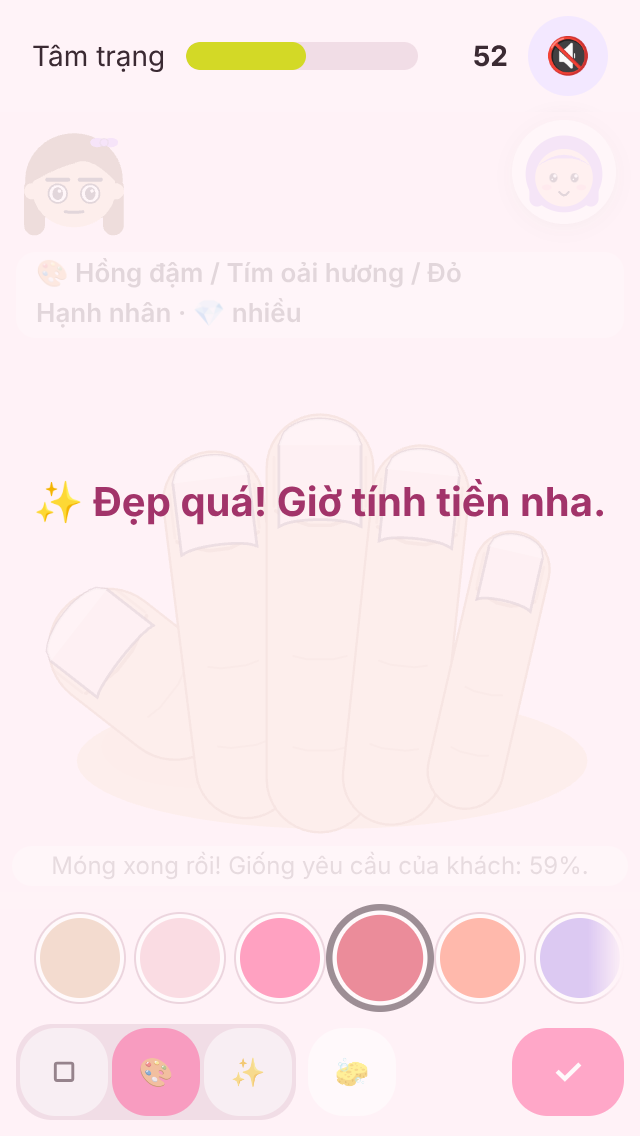
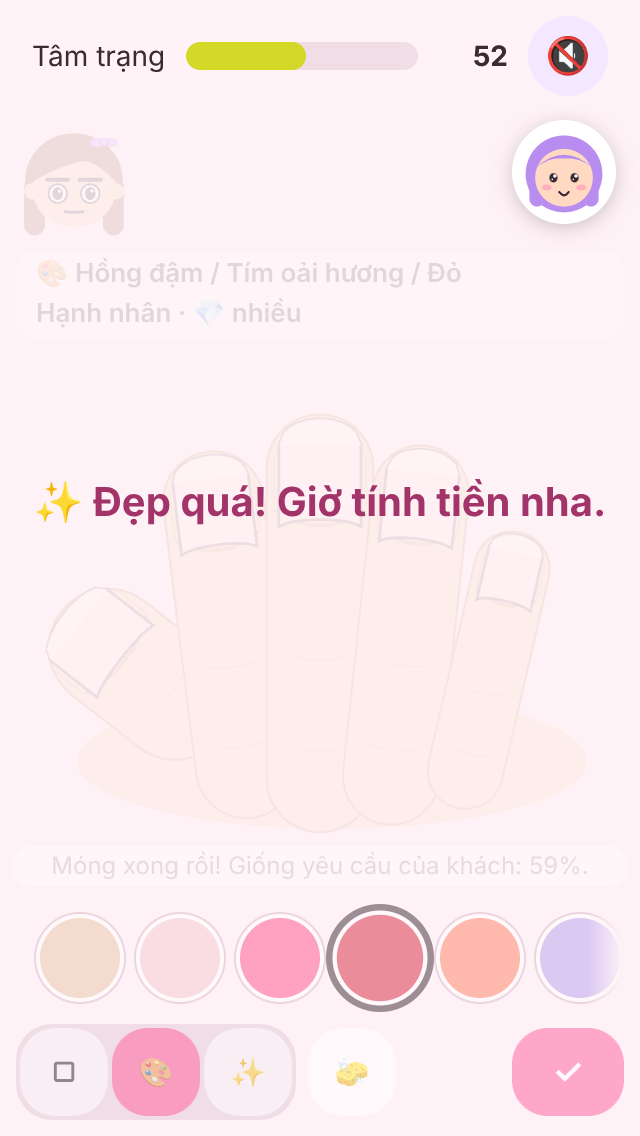
040 fix: the tip label never covers the client's face; re-shot the stale 035 nudge evidence — SAFE TO PAUSE
Overseer review of 3968382:
1. In the chat view "Tip for you! 💡" sat over the client's eyes, and her expression is how the player reads
   the mood. The label now sits above the companion's bubble and starts right of where her face ends. The
   portrait zone publishes the face box (data-face, and --face-right for the strip), so the label wraps instead
   of reaching her face, at any width. The service screen was already clear.
   The tip-cue e2e test now runs in the chat view (consultation) and checks that the label's box never meets
   the face box, en and vi. I watched it fail on the old placement first. An earlier version of the check
   passed on the old placement because the test was on the service screen, where the face is small and out of
   the way; that is now fixed.
2. production/qa/evidence/story-035-service-full-screen/en-320-02b-nudge.png is re-shot. It shows the whole
   line and the two-line order. The vi shot is re-shot too, and so are the 040 chat shots.

Tests: npm test → Test Files 39 passed (39), Tests 403 passed (403).
npm run e2e → 38 passed (1.2m).

SAFE TO PAUSE. Nothing else is queued until the owner's playtest. The OWNER list in 3968382 still stands,
minus the tip-label item (decided as above; the owner can revisit).

Claude-Session: https://claude.ai/code/session_01Fx5cxFjSfz8L37QZFocT7H

Changed region(s): [[0.8125, 0.0924, 0.9375, 0.1849]]

diff --git a/src/tests/integration/game-flows.spec.ts b/src/tests/integration/game-flows.spec.ts
@@ -202,7 +202,8 @@ for (const lang of LANGS) {
 
     test('a waiting tip stands out: a glow ring and a label by the companion, gone once opened', async ({ page }) => {
       await seed(page, lang, { save: { xp: 300, appointments: 10, badges: ['first-client'], ...dailyWith('ana') } });
-      await mockApi(page, { correct: true, replies: ['Hi!', 'Hello! Pink, please.'] });
+      // The chat view (consultation): the client's face is large there, the label must stay off it.
+      await mockApi(page, { correct: true, phases: ['consultation'], replies: ['Hi!', 'Hello! Pink, please.'] });
       await page.goto('/');
       await page.locator('.title-menu > .chat-button').first().click();
       await page.locator('.picker-daily').click();
@@ -212,6 +213,15 @@ for (const lang of LANGS) {
       await expect(page.locator('.mai-cue')).toHaveText(lang === 'vi' ? 'Chị có mẹo nè! 💡' : 'Tip for you! 💡');
       const inside = await page.locator('.mai-cue').evaluate((node) => { const r = node.getBoundingClientRect(); return r.left >= 0 && r.right <= window.innerWidth; });
       expect(inside).toBe(true);
+      // The label never covers the client's face (her expression shows the mood).
+      const touchesFace = await page.evaluate(() => {
+        const zone = document.querySelector<HTMLElement>('.portrait-zone')!;
+        const [x, y, w, h] = (zone.dataset.face ?? '0,0,0,0').split(',').map(Number) as [number, number, number, number];
+        const z = zone.getBoundingClientRect();
+        const c = document.querySelector('.mai-cue')!.getBoundingClientRect();
+        return c.left < z.left + x + w && z.left + x < c.right && c.top < z.top + y + h && z.top + y < c.bottom;
+      });
+      expect(touchesFace).toBe(false);
       await page.locator('.mai-bubble').click();
       await expect(page.locator('.mai-cue')).toBeHidden();
       await expect(page.locator('.mai-bubble.has-tip')).toHaveCount(0);

diff --git a/src/game/ui/portrait-zone.ts b/src/game/ui/portrait-zone.ts
@@ -67,6 +67,11 @@ export function createPortraitZone(host: HTMLElement, layer: Container, client: 
       clientPortrait.setSize(clientSize);
       clientPortrait.view.position.set(left + (zone.width - clientSize) / 2, top + CLIENT_PADDING);
     }
+    // Where her face is drawn, relative to the zone (story 040 fix: overlays must keep it visible; tests read it).
+    const face = compact ? { x: 8, y: 6, size: Math.min(COMPACT_CLIENT_PX, Math.max(1, zone.height * 0.4)) } : { x: (zone.width - Math.max(1, zone.height - CLIENT_PADDING * 2)) / 2, y: CLIENT_PADDING, size: Math.max(1, zone.height - CLIENT_PADDING * 2) };
+    element.dataset.face = [face.x, face.y, face.size, face.size].map((n) => Math.round(n)).join(',');
+    // Shared with the overlays laid over the strip (the companion's tip label starts right of her face).
+    (element.parentElement ?? element).style.setProperty('--face-right', `${Math.round(face.x + face.size)}px`);
     const bestieSize = Math.max(1, zone.height * BESTIE_CORNER_FRACTION);
     bestiePortrait.setSize(bestieSize);
     bestiePortrait.view.position.set(

diff --git a/src/game/ui/mai-bubble.css b/src/game/ui/mai-bubble.css
@@ -35,3 +35,8 @@
 .mai-badge { min-width: 18px; height: 18px; padding: 0 5px; font: 700 11px/18px system-ui, sans-serif; border-radius: 9px; }
 html[data-motion='reduce'] .mai-bubble.has-tip, html[data-motion='reduce'] .mai-bubble.has-tip.bounce { animation: none; }
 @media (prefers-reduced-motion: reduce) { .mai-bubble.has-tip, .mai-bubble.has-tip.bounce { animation: none; } }
+
+/* 040 fix (overseer): in the chat view the label sits above the companion's bubble, right of the client's face, and
+   wraps rather than reaching her face; her expression is how the player reads the mood. */
+.mai-layer:not(.over-station) .mai-cue { bottom: 68px; right: 4px; left: calc(var(--face-right, 210px) + 6px); max-width: none; white-space: normal; text-align: center; border-radius: 12px 12px 2px 12px; font-size: 12px; padding: 4px 6px; }
+.mai-layer:not(.over-station)[data-side='left'] .mai-cue { left: calc(var(--face-right, 210px) + 6px); right: 4px; border-radius: 12px 12px 12px 2px; }

diff --git a/src/tests/integration/fixtures.ts b/src/tests/integration/fixtures.ts
@@ -55,12 +55,14 @@ export interface ApiOptions {
   grading?: Record<string, unknown>;
   /** Story 040: the line check finds something to improve (a tip waits behind the companion's bubble). */
   correct?: boolean;
+  /** The phases the client turns walk through (default service → checkout → done). */
+  phases?: string[];
 }
 
 /** Answer every /api call the game makes. Returns the requests seen, by route. */
 export async function mockApi(target: Page | BrowserContext, options: ApiOptions = {}): Promise<Record<string, unknown[]>> {
   const seen: Record<string, unknown[]> = {};
-  const phases = ['service', 'checkout', 'done'];
+  const phases = options.phases ?? ['service', 'checkout', 'done'];
   let turn = 0;
   const replies = options.replies ?? ['Hi! I would like a manicure, please.', 'That colour is lovely, thank you!', 'How much do I owe you?', 'Thank you so much, see you next time!'];
   await target.route('**/api/**', async (route: Route) => {

diff --git a/production/epics/salon-besties/story-040-companion-tip-cue.md b/production/epics/salon-besties/story-040-companion-tip-cue.md
@@ -28,3 +28,10 @@ opening the companion clears both. Screens: `production/qa/evidence/story-040-ti
 - Found by the new e2e test: on the full-screen service (035) the painting layer covered the companion's bubble, so she
   could not be tapped while painting. Her layer is now above it.
 - In the chat view the label partly covers the client's face while a tip waits (it goes when opened).
+
+## Fix (overseer, after 3968382)
+
+- In the chat view the label sat over the client's eyes. It now sits above the companion's bubble and starts right of
+  where her face ends (the portrait zone publishes the face box as `data-face` / `--face-right`), wrapping instead of
+  reaching it. The e2e test now runs in the chat view and checks the label's box never meets the face box (en + vi);
+  it failed on the old placement before the fix.
